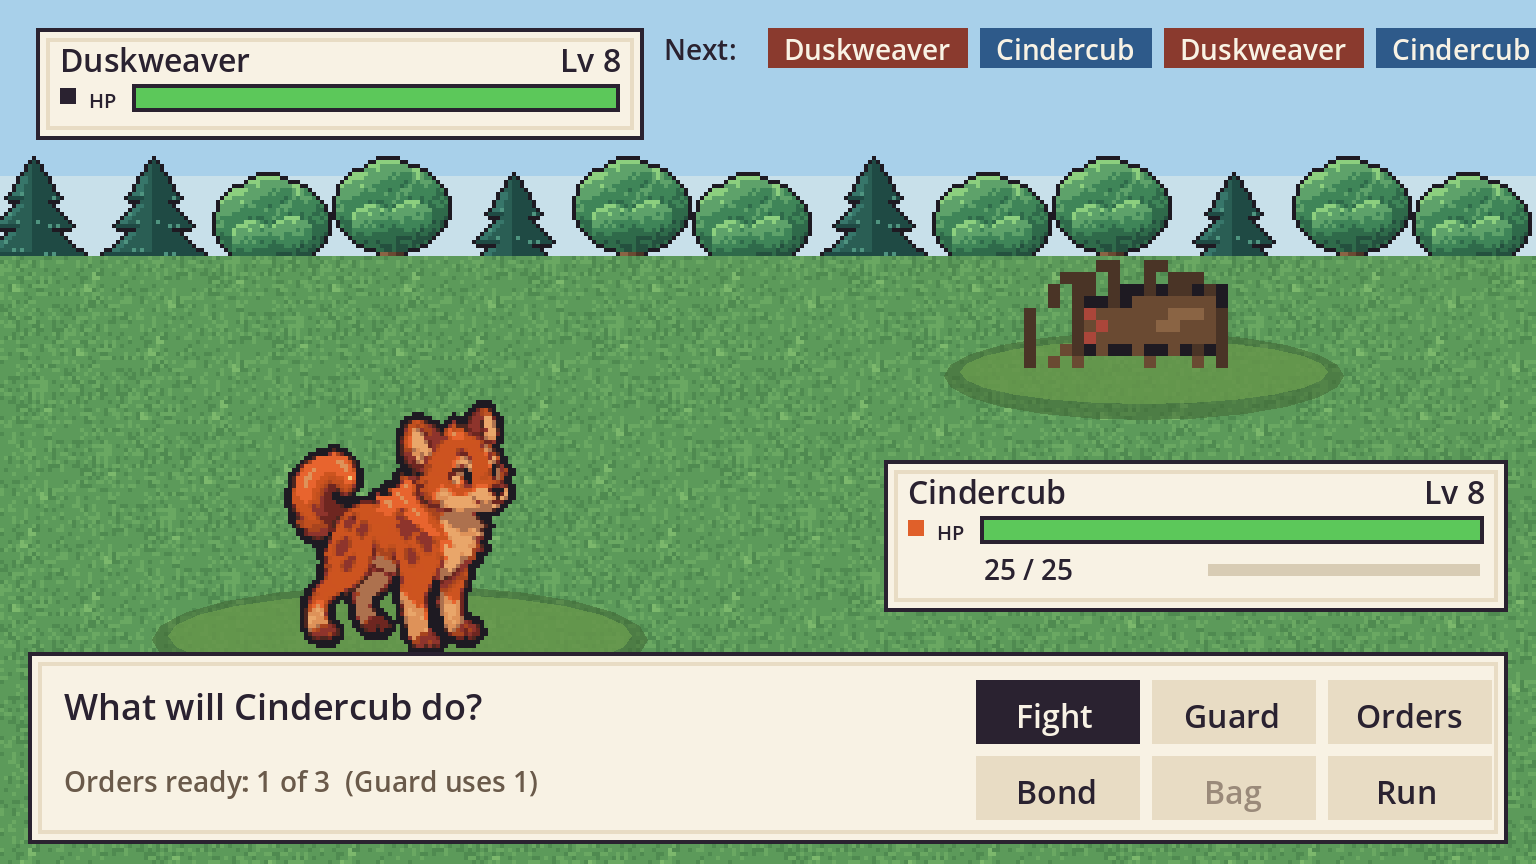
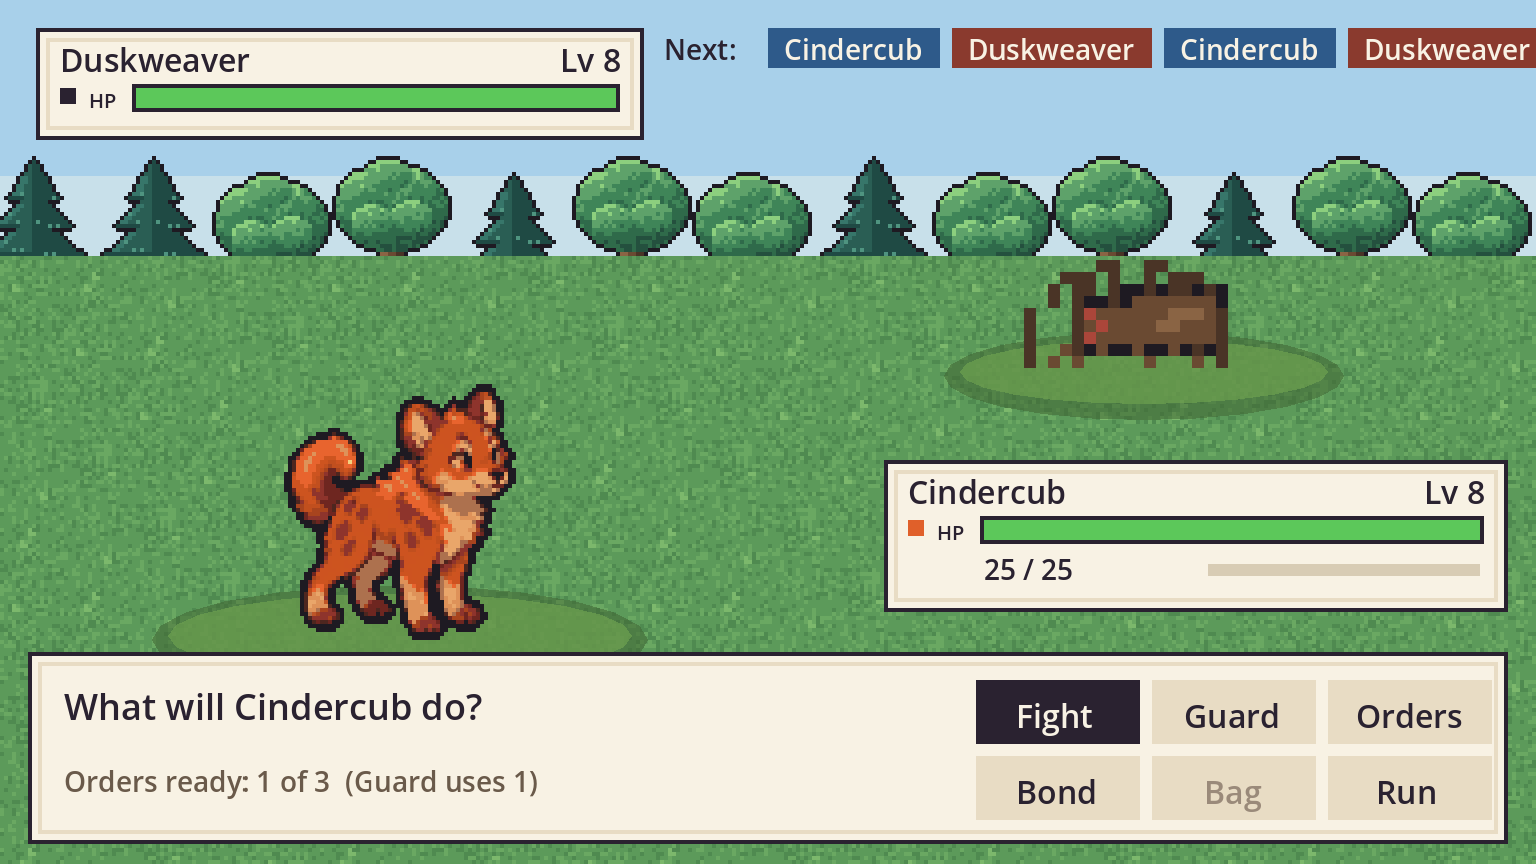
WBL-6: lift the player's feet clear of the command box
The command box's top border covered the bottom row of a 64px battle front. Clearance now lifts feet over a full-width bar, keeping a whole-number scale and 4px of space.

Changed region(s): [[0.1875, 0.4375, 0.3438, 0.75], [0.5, 0.0312, 1.0, 0.0938]]

diff --git a/docs/screenshots/wbl6/README.md b/docs/screenshots/wbl6/README.md
@@ -4,7 +4,7 @@ Godot 4.7.2 drew these from the battle screen, at the game's own 384×216 view s
 
 Before, the battle stretched the small walking sprites. Ripplet came out as a flat strip. Duskweaver, which has no painting, came out as loose pixels.
 
-After, Cindercub and Ripplet use their 64×64 battle paintings. Your creature faces right. The wild one keeps the painting's leftward face. Duskweaver still has no battle painting, so it keeps the old figure, now on whole pixels. The health panels stay clear.
+After, Cindercub and Ripplet use their 64×64 battle paintings. Your creature faces right, and its feet stop 4px above the command box. The wild one keeps the painting's leftward face. Duskweaver still has no battle painting, so it keeps the old figure, now on whole pixels. The health panels stay clear.
 
 - [Before: Cindercub against Ripplet](https://raw.githubusercontent.com/ecbarish/generations/cursor/wbl6-battle-sprites-5858/docs/screenshots/wbl6/before-starter-vs-starter.png)
 - [Before: Cindercub against Duskweaver](https://raw.githubusercontent.com/ecbarish/generations/cursor/wbl6-battle-sprites-5858/docs/screenshots/wbl6/before-fallback.png)

diff --git a/wildbond-godot/README.md b/wildbond-godot/README.md
@@ -6,7 +6,7 @@ deciding (START-HERE.md "Questions for Evan" 1; docs/wildbond-plan.md).
 
 ## Unreleased
 
-- WBL-6: a battle uses `assets/creatures/battle/<id>_battle_front.png` when that file is there (64×64, whole pixels, your creature turned to face right). A creature without one keeps the old picture, drawn on whole pixels. Not published.
+- WBL-6: a battle uses `assets/creatures/battle/<id>_battle_front.png` when that file is there (64×64, whole pixels, your creature turned to face right, feet 4px above the command box). A creature without one keeps the old picture, drawn on whole pixels. Not published.
 - WB-FUNNEL1 (merged #380, 2026-10-14): a tap advances opening dialogue, and the opening records time to the first partner, first battle and first catch. Not published.
 - WB-C4 (merged #372, 2026-10-14): Larkhaven gets a barn garden, door stones, straw in the pen and grass variety, and the Thornwood ponds get a muddy, reedy bank. Not published.
 - WB-C3b (merged #382, 2026-10-14): the register shows only the tap hint on phones, and the partner-card note no longer touches the stat bars. Not published.
